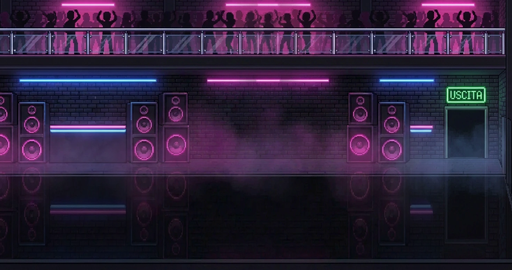
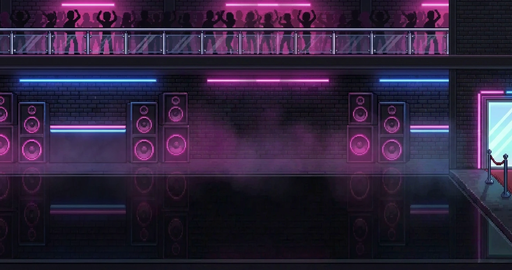
V65: blend every place-to-place join in the stage pictures
Where a stage goes from one place to another the Meshy panels met in a straight
cut (Arrivals, apron to hall, was the worst). Each one now has a Meshy-painted
way through, kept outer thirds and a new middle (tools/v65/bridge.py, added as
patches in stages.json):
- The Frequency: the last shop wall, railings and the underpass wing wall
- Soundz FM: the flat's own front door, carpet to lino at the threshold
- Arrivals: the terminal's front with open glass doors and a step, and at the
  far end the exit under a canopy onto the road with a taxi
- The Dive Bar: the back door, step, doormat and a vine pergola
- The Club: the lit entrance with a rope and red carpet
- Orpington Station: the lit glass entrance with a doormat
- The Arrangement: the car park's tarmac breaking up into the dirt path
Ramsden's ground tone step is smoothed with "seams".

Claude-Session: https://claude.ai/code/session_01G9hG8uJMGeScPwqm8CwBsv

diff --git a/web/index.html b/web/index.html
@@ -7062,6 +7062,8 @@ function drawStageBg() {
   if (ST.bg === 'kebab') { kebabBg(); return; }   // Version 59
   if (meshyBg()) return;   // Version 64: painted in Meshy
   if (ST.bg === 'kebab') { kebabBg(); return; }   // Version 59
+  if (meshyBg()) return;   // Version 64: painted in Meshy
+  if (ST.bg === 'kebab') { kebabBg(); return; }   // Version 59
   if (ST.era === 2006 && nlDrawStageBg(ST.bg)) return;
   if (ST.bg === 'fishery') bgFisheryPixel();
   else if (ST.bg === 'orpington') bgOrpingtonPixel();
@@ -8066,6 +8068,32 @@ function bar(x, y, w, h, frac, col, back) {
   ctx.fillStyle = back || '#3a2420'; ctx.fillRect(x, y, w, h);
   ctx.fillStyle = col; ctx.fillRect(x, y, Math.max(0, w * clamp(frac, 0, 1)), h);
   ctx.fillStyle = 'rgba(255,255,255,0.22)'; ctx.fillRect(x, y, Math.max(0, w * clamp(frac, 0, 1)), Math.max(2, h * 0.3));
+}
+// Version 65: Meshy's gunmetal plate and glass-tube bars. A fill is one painted tile, repeated along the bar and cut off
+// where the bar ends; until the pictures load the old code bars are drawn instead.
+const HUD_FILES = ['plate', 'boss', 'fill_hp', 'fill_sp', 'fill_boss', 'fill_foe'].map(n => 'hud/' + n); HUD_FILES.forEach(f => bgImg(f)); ASSET_BG.push(...HUD_FILES);
+function hudFill(name, x, y, w, h, frac, trough, flash) {
+  const img = bgImg('hud/' + name); if (!img) return false;
+  x = PX(x); y = PX(y); w = PX(w); h = PX(h);
+  if (trough) { ctx.fillStyle = OUT; ctx.fillRect(x - 2, y - 2, w + 4, h + 4); }
+  ctx.fillStyle = '#141018'; ctx.fillRect(x, y, w, h);
+  const fw = PX(w * clamp(frac, 0, 1)); if (fw <= 0) return true;
+  ctx.save(); ctx.beginPath(); ctx.rect(x, y, fw, h); ctx.clip(); ctx.imageSmoothingEnabled = false;
+  const tw = img.width * 2; for (let tx = x; tx < x + fw; tx += tw) ctx.drawImage(img, tx, y, tw, h);
+  if (flash) { ctx.fillStyle = 'rgba(255,250,220,0.35)'; ctx.fillRect(x, y, fw, h); }
+  ctx.restore(); return true;
+}
+function hudFrame(name, x, y) { const img = bgImg('hud/' + name); if (!img) return false; ctx.save(); ctx.imageSmoothingEnabled = false; ctx.drawImage(img, PX(x), PX(y), img.width * 2, img.height * 2); ctx.restore(); return true; }
+function hudPanel(x, y, w, h) {
+  const img = bgImg('hud/plate'); if (!img || !bgReady(HUD_FILES)) { pxPanel(x, y, w, h); return; }
+  x = PX(x); y = PX(y); w = PX(w); h = PX(h); const c = 6, C = c * 2, mw = 50, mh = 10, sx = 120, sy = 26;   // corner (native), and a plain patch of the plate
+  ctx.save(); ctx.imageSmoothingEnabled = false; const d = (a, b, cw, ch, X, Y, Wd, Hd) => ctx.drawImage(img, a, b, cw, ch, X, Y, Wd, Hd);
+  d(sx, sy, mw, mh, x + C, y + C, w - 2 * C, h - 2 * C);
+  d(120, 0, img.width - 126, c, x + C, y, w - 2 * C, C); d(120, img.height - c, img.width - 126, c, x + C, y + h - C, w - 2 * C, C);   // top and bottom from clear of the holes
+  d(img.width - c, c, c, img.height - 2 * c, x + w - C, y + C, C, h - 2 * C);
+  ctx.save(); ctx.translate(x + C, 0); ctx.scale(-1, 1); d(img.width - c, c, c, img.height - 2 * c, 0, y + C, C, h - 2 * C); d(img.width - c, 0, c, c, 0, y, C, C); d(img.width - c, img.height - c, c, c, 0, y + h - C, C, C); ctx.restore();   // the plate's left edge has the portrait window in it: mirror its right edge
+  d(img.width - c, 0, c, c, x + w - C, y, C, C); d(img.width - c, img.height - c, c, c, x + w - C, y + h - C, C, C);
+  ctx.restore();
 }
 // Version 65: Meshy's gunmetal plate and glass-tube bars. A fill is one painted tile, repeated along the bar and cut off
 // where the bar ends; until the pictures load the old code bars are drawn instead.

diff --git a/tools/v65/bridge.py b/tools/v65/bridge.py
@@ -1,0 +1,31 @@
+"""Paint over a hard cut in a stage picture: python3 tools/v65/bridge.py <stage> <native x> <name> "<what the join should be>"
+
+native x is a column of the finished stage picture (web/bg/meshy, 1 pixel = 2 game units). Takes the 1376 raw pixels
+around it from the stitched Meshy panels (tools/v64/meshy_bg.py), keeps the outer thirds, blurs the middle into a rough
+guide, and asks Meshy (9 credits) to repaint the middle as a natural way from one place into the other (a doorway, an
+entrance, a kerb) with the floor changing along it, not in a straight line down the picture. Saves
+tools/v64/img/<stage>/<name>.webp; add [raw x, "<name>"] (printed) to the stage's "patches" in stages.json.
+"""
+import importlib.util, os, subprocess, sys
+from PIL import Image, ImageFilter
+HERE = os.path.dirname(os.path.abspath(__file__)); ROOT = os.path.dirname(os.path.dirname(HERE)); V64 = os.path.join(ROOT, 'tools', 'v64')
+WORK = os.environ.get('MESHY_WORK', '/tmp/meshy_work')
+stage, nx, name, what = sys.argv[1], int(sys.argv[2]), sys.argv[3], sys.argv[4]
+spec = importlib.util.spec_from_file_location('mb', os.path.join(V64, 'meshy_bg.py')); mb = importlib.util.module_from_spec(spec)
+sys.argv = [sys.argv[0], '--none']; spec.loader.exec_module(mb)
+c = mb.CFG[stage]; strip = mb.patch(mb.stitch(stage, c['panels']), stage, c)
+x = round(nx * mb.PW / 480); x = max(688, min(strip.width - 688, x))
+crop = strip.crop((x - 688, 0, x + 688, 768)); T = 1376 // 3
+guide = crop.filter(ImageFilter.GaussianBlur(16)); guide.paste(crop.crop((0, 0, T, 768)), (0, 0)); guide.paste(crop.crop((1376 - T, 0, 1376, 768)), (1376 - T, 0))
+D = os.path.join(WORK, stage); os.makedirs(D, exist_ok=True); gp = os.path.join(D, name + '_canvas.png'); guide.save(gp)
+first = os.path.join(V64, 'img', stage, c['panels'][0] + '.webp')
+prompt = ("The first image is a wide pixel art background for a side-scrolling beat 'em up game. Its left third and right third are finished and show two "
+          "different places; the blurry middle third is only a rough guide and must be repainted. Keep the left third and the right third exactly as they are, "
+          "pixel for pixel, and repaint the middle so the picture reads as one continuous place with a natural way through from the left place into the right one, "
+          "in exactly the same pixel art style, pixel size, lighting and flat side-on camera as the finished parts and the second image. " + what +
+          " There must be no straight vertical line where one floor or wall simply stops and the other starts: the floor on the left meets the floor on the right "
+          "along the edge of a step, a threshold, a kerb or a doormat, or they blend gradually. The line where the walls meet the ground stays at the same height, and "
+          "the bottom third stays flat, wide, empty walkable ground. No people, no text other than signs already there.")
+subprocess.run([sys.executable, os.path.join(V64, 'meshy_free.py'), stage, name, prompt, gp + ',' + first], check=True)
+Image.open(os.path.join(D, name + '_raw.png')).save(os.path.join(V64, 'img', stage, name + '.webp'), quality=94, method=6)
+print('patch', [x, name])
